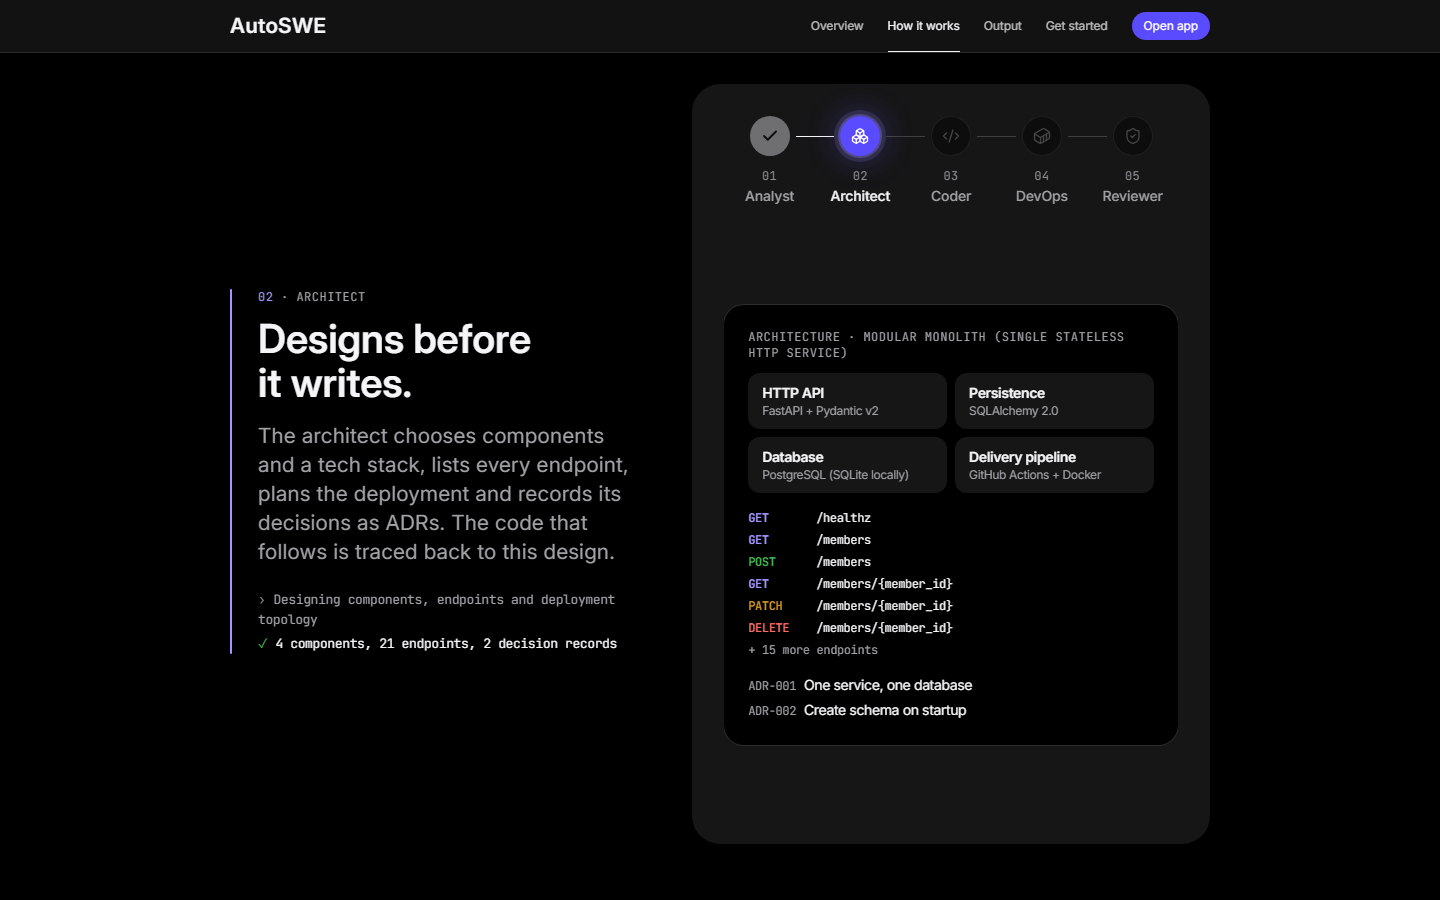
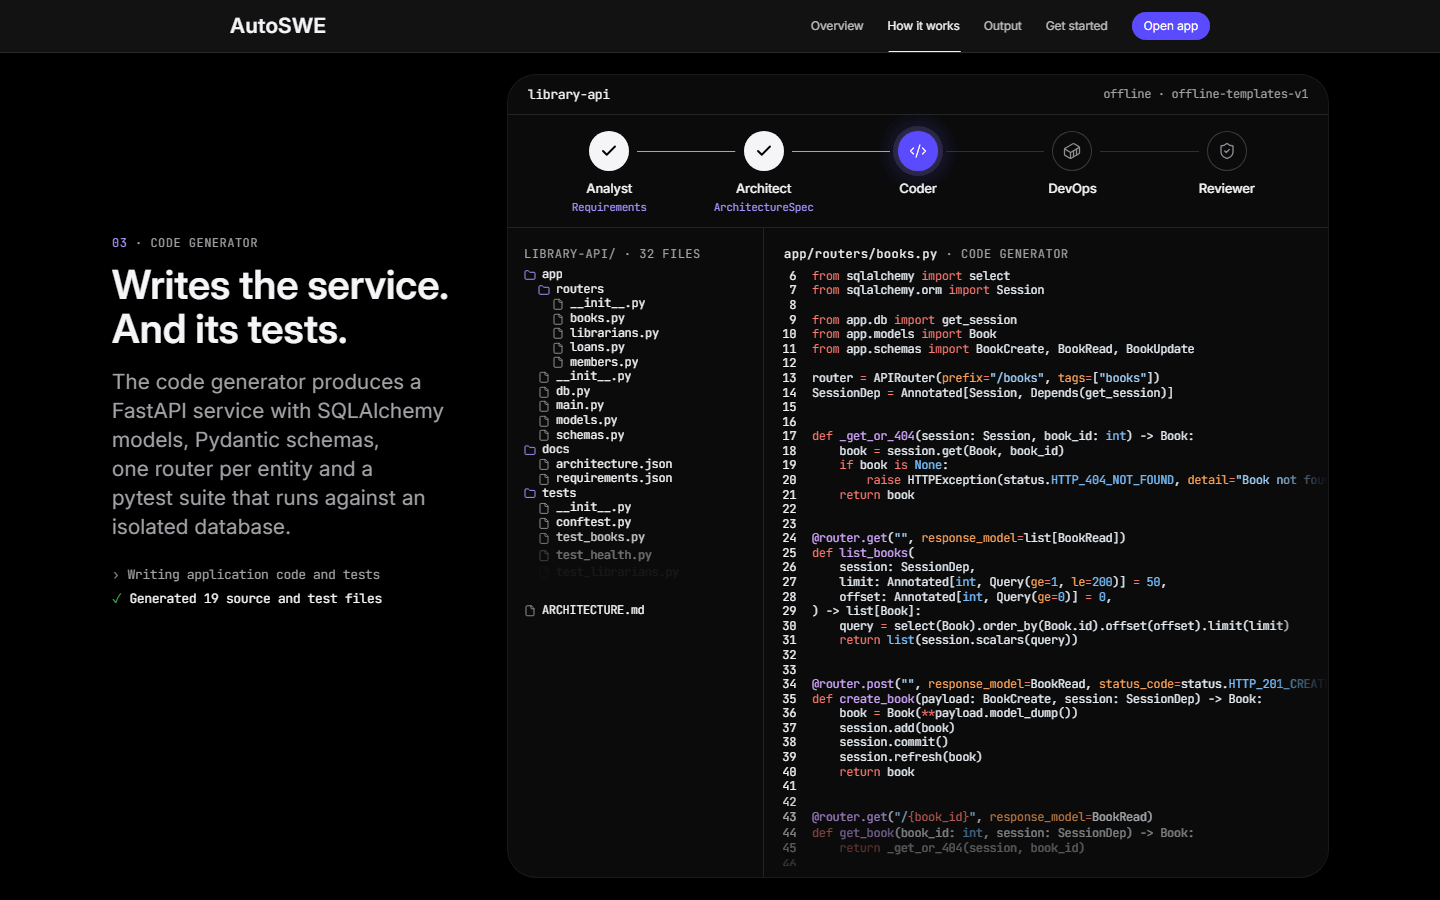
docs: README shows the pinned story and describes the motion pass
Refreshes the "How it works" screenshot (the pinned story mid-run, coder
at work) and adds a short recording of the story being scrolled (WebP
841 KB, GIF fallback 922 KB, both from a 1440x900 Playwright capture).
The UI and test sections describe the motion and what the suite checks.

diff --git a/README.md b/README.md
@@ -69,8 +69,17 @@ Animated WebP (479 KB), with a shorter GIF for clients that cannot show WebP.</s
   hash, nothing else inline), security headers, a non-root container, and no secrets in code.
 - **Web UI** (React, TypeScript, Tailwind, Motion, Radix):
   - A product page at `/`, dark-first, built from a real offline run of the pipeline: a replay
-    of the run on the five-agent rail, a scroll story that shows what each agent produced, and an
-    unedited view of the generated code. A test regenerates that data and fails on drift.
+    of the run on the five-agent rail, a pinned scroll story that shows how the pipeline works
+    (each agent lights up and hands its typed artifact on, the real file tree grows as files are
+    written, real code lines appear, and the reviewer ticks off every file with the parser that
+    checks it), and an unedited view of the generated code. A test regenerates that data and
+    fails on drift.
+  - Motion that explains rather than decorates: the story is scrubbed by scroll on a CSS scroll
+    timeline (where a browser lacks one, a few lines of script seek the same animations), the
+    local nav's underline slides to the section in view, the validation numbers count up once, a
+    job card morphs into its page (View Transitions), and pipeline stages spring as a job
+    advances. All of it is progressive: the prerendered page is complete without JavaScript, and
+    reduced motion gets final states.
   - The studio at `/app`: spec composer with examples, a live pipeline timeline and streaming
     activity log, file tree with Shiki highlighting, architecture (Mermaid), review and
     requirements tabs, a ⌘K / Ctrl+K command palette, toasts and accessible dialogs.
@@ -84,10 +93,18 @@ Animated WebP (479 KB), with a shorter GIF for clients that cannot show WebP.</s
   RDS, Secrets Manager).
 - **CLI**: `autoswe generate "<spec>" --out ./project` runs the whole pipeline locally.
 
+<picture>
+  <source srcset="docs/story-scroll.webp" type="image/webp">
+  <img alt="The product page's pinned story, scrolled: the five agents light up in turn, the real file tree grows, real code lines appear and the reviewer ticks off every file" src="docs/story-scroll.gif">
+</picture>
+
+<sub>The product page's "How it works" story, recorded at 1440×900 while scrolling at a steady pace
+(6 frames a second here). Every file, line and number is from a real offline run.</sub>
+
 <table>
   <tr>
     <td><img src="docs/screenshots/landing-hero-dark.png" alt="Product page hero: Plain English in. Deployable project out."></td>
-    <td><img src="docs/screenshots/landing-story-dark.png" alt="How it works: the architect's real output beside the pinned five-agent rail"></td>
+    <td><img src="docs/screenshots/landing-story-dark.png" alt="How it works, pinned: the code generator at work, its files growing in the real tree and app/routers/books.py being written"></td>
   </tr>
   <tr>
     <td><img src="docs/screenshots/landing-output-dark.png" alt="Output: unedited generated code in a highlighted viewer"></td>
@@ -328,7 +345,9 @@ and checks the product page and the studio. axe finds no serious or critical WCA
 on the product page (both themes, desktop and phone), the new-project page, a finished job (both
 themes), the command palette, the delete dialog and the not-found page. Nothing overflows at 390px
 or 320px; a job runs live through all five agents; the product page is complete without
-JavaScript; and the carousel, keyboard focus, appearance (including blocked storage), command
+JavaScript; the scroll story scrubs and reverses, and reduced motion gets the complete static
+story with nothing faded; count-ups land on the exact static values; a job card opens its page
+through one view transition (none with reduced motion); and the carousel, keyboard focus, appearance (including blocked storage), command
 palette, dialogs and not-found states work.
 Set `E2E_SERVER_COMMAND` if `uv` is not on your `PATH`.
 
